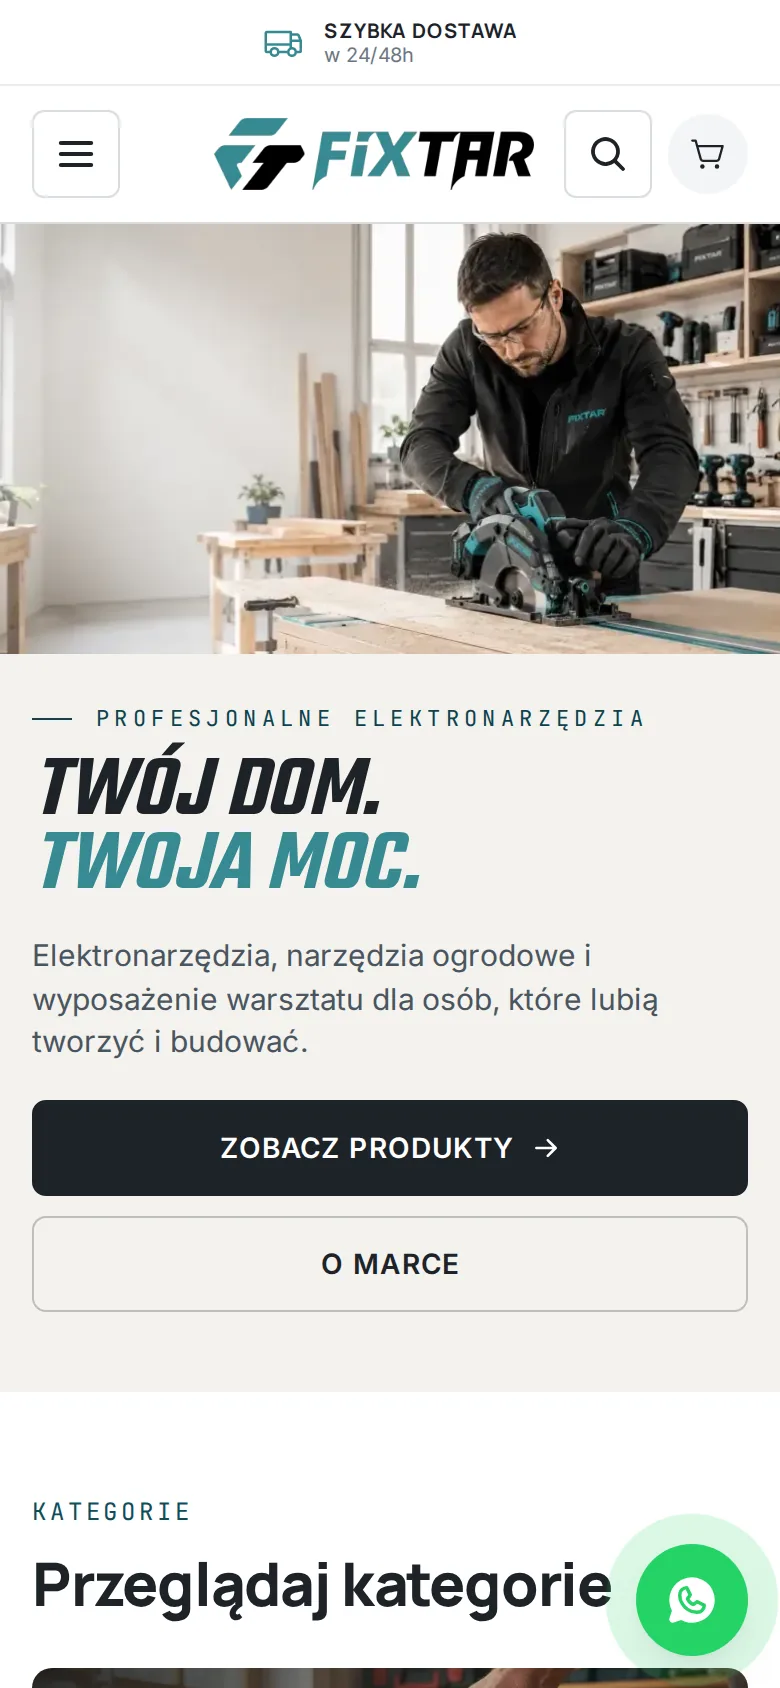
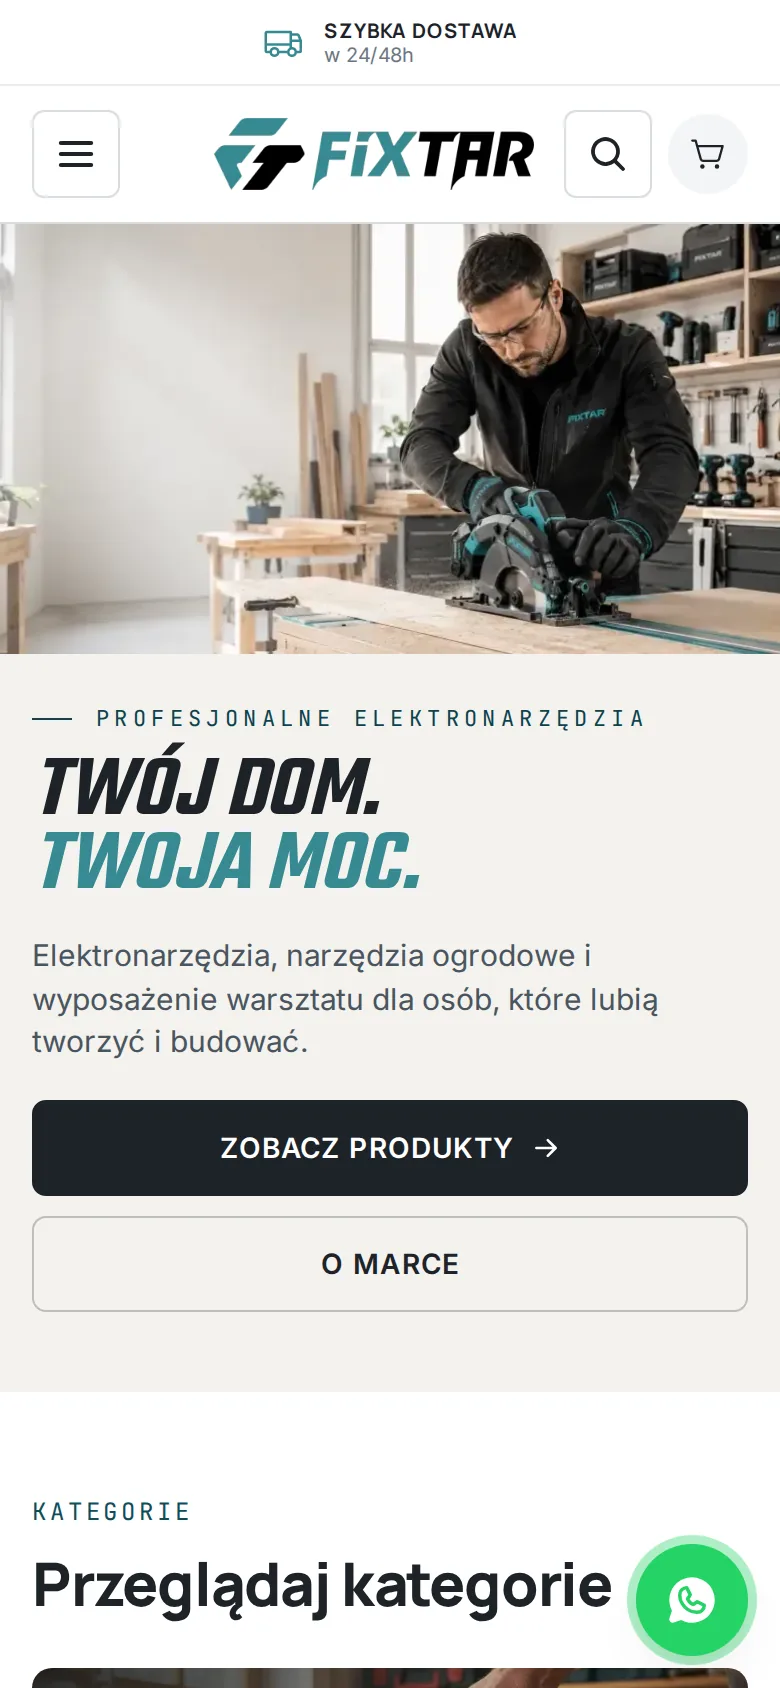
feat(web): fixtar gets the live window's bar and scrolls through whole-page captures
The shop is a client's and stays out of a frame, but its card now has the same
host, Desktop/Mobile and Open bar as its neighbours; a click lets the visitor
scroll the whole page at either width. Touch no longer hands control back on
finger lift, which also keeps live frames usable on phones.

Changed region(s): [[0.7692, 0.8934, 1.0, 1.0]]

diff --git a/apps/web/src/lib/Live.svelte b/apps/web/src/lib/Live.svelte
@@ -4,7 +4,9 @@
 	// A site running inside the page, at a desktop or a phone width. A click hands
 	// it the pointer so it can be used without leaving; when the pointer leaves,
 	// the page gets its scroll back. The capture shows until the site has loaded.
-	let { href, name, shot, phone }: { href: string; name: string; shot?: string; phone?: string } = $props();
+	// A site that may not be framed passes whole-page captures instead (page,
+	// pagePhone), which the same click lets the visitor scroll through.
+	let { href, name, shot, phone, page, pagePhone }: { href: string; name: string; shot?: string; phone?: string; page?: string; pagePhone?: string } = $props();
 
 	const DESKTOP = 1280;
 	const PHONE = 390;
@@ -13,11 +15,14 @@
 	let loaded = $state(false);
 	let w = $state(0);
 	let h = $state(0);
+	let screen: HTMLDivElement;
+	const view = (m: boolean) => ((mobile = m), screen.scrollTo(0, 0));
 	const host = $derived(new URL(href).host);
 	const vw = $derived(mobile ? PHONE : DESKTOP);
 	const s = $derived(w ? Math.min(1, w / vw) : 0.35);
 	const left = $derived(Math.max(0, (w - vw * s) / 2));
 	const still = $derived(mobile ? (phone ?? shot) : shot);
+	const sheet = $derived(page && (mobile ? (pagePhone ?? page) : page));
 
 	onMount(() => (mobile = matchMedia('(max-width: 600px)').matches));
 </script>
@@ -26,31 +31,43 @@
 	<div class="bar">
 		<span class="host">{host}</span>
 		<span class="views" role="group" aria-label="Screen width">
-			<button type="button" aria-pressed={!mobile} onclick={() => (mobile = false)}>Desktop</button>
-			<button type="button" aria-pressed={mobile} onclick={() => (mobile = true)}>Mobile</button>
+			<button type="button" aria-pressed={!mobile} onclick={() => view(false)}>Desktop</button>
+			<button type="button" aria-pressed={mobile} onclick={() => view(true)}>Mobile</button>
 		</span>
 		<a href={href} target="_blank" rel="noopener">Open ↗</a>
 	</div>
-	<!-- Leaving only drops the pointer hand-off; the cover button is the control. -->
+	<!-- Leaving only drops the pointer hand-off; the cover button is the control.
+	     A finger lifting also "leaves", so only a mouse or pen hands it back. -->
 	<!-- svelte-ignore a11y_no_static_element_interactions -->
-	<div class="screen" bind:clientWidth={w} bind:clientHeight={h} onpointerleave={() => (active = false)}>
-		{#if !loaded && still}
-			<img src={still} alt="" style:left="{left}px" style:width="{vw * s}px" />
+	<div
+		class="screen"
+		bind:this={screen}
+		class:scroll={sheet && active}
+		bind:clientWidth={w}
+		bind:clientHeight={h}
+		onpointerleave={(e) => e.pointerType !== 'touch' && (active = false)}
+	>
+		{#if sheet}
+			<img class="sheet" src={sheet} alt="{name}, the whole page" loading="lazy" style:margin-left="{left}px" style:width="{vw * s}px" />
+		{:else}
+			{#if !loaded && still}
+				<img src={still} alt="" style:left="{left}px" style:width="{vw * s}px" />
+			{/if}
+			<iframe
+				src={href}
+				title="{name}, live"
+				loading="lazy"
+				class:shown={loaded}
+				style:left="{left}px"
+				style:width="{vw}px"
+				style:height="{h / s}px"
+				style:transform="scale({s})"
+				onload={() => (loaded = true)}
+			></iframe>
 		{/if}
-		<iframe
-			src={href}
-			title="{name}, live"
-			loading="lazy"
-			class:shown={loaded}
-			style:left="{left}px"
-			style:width="{vw}px"
-			style:height="{h / s}px"
-			style:transform="scale({s})"
-			onload={() => (loaded = true)}
-		></iframe>
 		{#if !active}
 			<button type="button" class="cover" onclick={() => (active = true)} aria-label="Use {name} here">
-				<span>Click to use it here</span>
+				<span>{sheet ? 'Click to scroll through it' : 'Click to use it here'}</span>
 			</button>
 		{/if}
 	</div>
@@ -113,6 +130,15 @@
 		top: 0;
 		display: block;
 		background: var(--paper);
+	}
+	.scroll {
+		overflow-y: auto;
+		overscroll-behavior: contain;
+		scrollbar-width: thin;
+	}
+	img.sheet {
+		position: static;
+		height: auto;
 	}
 	img {
 		height: 100%;

diff --git a/apps/web/src/routes/+page.svelte b/apps/web/src/routes/+page.svelte
@@ -1057,12 +1057,16 @@
 	const flagships = work.filter((w) => w.built);
 	const usedIn = (id: string) => [...work, ...websites].filter((w) => w.uses?.includes(id)).map((w) => w.name);
 	// Every smaller project renders as the same card: a picture, then the facts.
-	type Card = { id: string; name: string; tag: string; href: string; img?: string; phone?: string; frame?: boolean; live?: boolean; desc: string; specs: [string, string][]; uses?: string[]; growth?: Work['growth'] };
+	type Card = { id: string; name: string; tag: string; href: string; img?: string; phone?: string; page?: string; pagePhone?: string; frame?: boolean; live?: boolean; desc: string; specs: [string, string][]; uses?: string[]; growth?: Work['growth'] };
 	const others: Card[] = work
 		.filter((w) => !w.built)
 		.map((w) => ({ id: w.id, name: w.name, tag: w.kind, href: w.href, img: shot(w.id), phone: phoneFor(w.id), frame: isLive(w.href), desc: w.what, specs: w.proof ?? [], uses: w.uses }));
 	const siteCards = (basket: Site['basket']): Card[] =>
-		websites.filter((w) => w.basket === basket).map((w) => ({ ...w, img: platesFor(w.id, w.name)?.frames[0].src, phone: phoneFor(w.id), frame: isLive(w.href) }));
+		websites.filter((w) => w.basket === basket).map((w) => {
+			// A site that may not be framed scrolls through whole-page captures instead.
+			const page = shot(`${w.id}-page`);
+			return { ...w, img: platesFor(w.id, w.name)?.frames[0].src, phone: phoneFor(w.id), page, pagePhone: shot(`${w.id}-page-phone`), frame: !!page || isLive(w.href) };
+		});
 	const clients = siteCards('client');
 	const side = siteCards('side');
 	const groups = kinds
@@ -1121,7 +1125,7 @@
 		{#if c.live}
 			<Radio href={c.href} />
 		{:else if c.frame}
-			<div class="shot"><Live href={c.href} name={c.name} shot={c.img} phone={c.phone} /></div>
+			<div class="shot"><Live href={c.href} name={c.name} shot={c.img} phone={c.phone} page={c.page} pagePhone={c.pagePhone} /></div>
 		{:else if c.img}
 			<a class="shot" href={c.href} tabindex="-1" aria-hidden="true">
 				<img src={c.img} alt="" width="1200" height="750" loading="lazy" />

diff --git a/apps/web/scripts/capture.py b/apps/web/scripts/capture.py
@@ -3,6 +3,8 @@
 Plates: 1440x900 at DPR 2, scaled to 1200x750 (<id>-1.webp, or <id>-<n> per FRAMES url).
 Windows: 1280x800 at DPR 2, the live window's desktop width, scaled to 1200x750.
 Phone: 390x844 at DPR 2, kept at 780x1688 (<id>-phone.webp).
+Pages: whole pages for sites that cannot be framed, scrolled through in the
+window instead (windows/<id>-page.webp at 1280 wide, <id>-page-phone.webp at 780).
 Each file gets a .webp.json provenance note, as DESIGN.md asks.
 """
 import io, json, re, sys
@@ -30,14 +32,17 @@ WINDOWS = {
     'kompi': 'https://kompi.pl',
     'festivals': 'https://festivals.zaur.app',
 }
+# Sites kept out of a live window (fixtar is a client's shop): whole-page captures.
+PAGES = {'fixtar': 'https://fixtar.pl'}
 # Look-inside frames, in the order plates.ts describes them.
 FRAMES = {
     'szkolyjogi': ['https://szkolyjogi.pl/en/krakow/yoga-shala-krakow', 'https://szkolyjogi.pl/en/krakow/dzisiaj', 'https://szkolyjogi.pl/en/krakow'],
 }
 CONSENT = re.compile(r'^\s*(akceptuj|zaakceptuj|zgadzam|accept|allow all|ok|rozumiem)', re.I)
+CAP = 6000  # tallest page kept, in CSS px
 HIDE = '::-webkit-scrollbar{display:none} html{scrollbar-width:none}'
 
-def shoot(browser, url, w, h):
+def shoot(browser, url, w, h, full=False):
     page = browser.new_page(viewport={'width': w, 'height': h}, device_scale_factor=2,
                             is_mobile=w < 500, has_touch=w < 500)
     page.goto(url, wait_until='load', timeout=60000)
@@ -49,7 +54,12 @@ def shoot(browser, url, w, h):
         except Exception:
             pass
     page.wait_for_timeout(2500)
-    png = page.screenshot()
+    if full:
+        # Walk down so lazy images load, then come back up for sticky headers.
+        for y in range(0, min(page.evaluate('document.body.scrollHeight'), CAP), h // 2):
+            page.evaluate(f'scrollTo(0, {y})'); page.wait_for_timeout(250)
+        page.evaluate('scrollTo(0, 0)'); page.wait_for_timeout(1000)
+    png = page.screenshot(full_page=full)
     page.close()
     return Image.open(io.BytesIO(png))
 
@@ -57,6 +67,10 @@ def save(img, name, note, dir='plates'):
     img.save(LIB / dir / f'{name}.webp', quality=82, method=6)
     (LIB / dir / f'{name}.webp.json').write_text(json.dumps(
         {'prompt': f'Live capture, not generated: {note}', 'createdAt': datetime.now(timezone.utc).isoformat()}, indent=2) + '\n')
+
+def page_shot(img, w):
+    img = img.crop((0, 0, img.width, min(img.height, CAP * 2)))
+    return img.resize((w, round(img.height * w / img.width)), Image.LANCZOS)
 
 ids = sys.argv[1:] or [*SITES, *WINDOWS]
 day = datetime.now().date().isoformat()
@@ -71,5 +85,9 @@ with sync_playwright() as p:
             save(shoot(browser, u, 1440, 900).resize((1200, 750), Image.LANCZOS), f'{id}-{n}', desk(u, 1440, 900))
         save(shoot(browser, url, 390, 844), f'{id}-phone',
              f'{url} screenshotted with Playwright Chromium at a 390x844 phone viewport, DPR 2, scrollbars hidden, consent banner dismissed, on {day}; kept at 780x1688 webp.')
+        if id in PAGES:
+            note = lambda w: f'{url} whole page screenshotted with Playwright Chromium at {w} wide, DPR 2, lazy images scrolled in, scrollbars hidden, consent banner dismissed, cut at {CAP}px tall, on {day}'
+            save(page_shot(shoot(browser, url, 1280, 800, True), 1280), f'{id}-page', note(1280) + '; scaled to 1280 wide webp.', 'windows')
+            save(page_shot(shoot(browser, url, 390, 844, True), 780), f'{id}-page-phone', note(390) + '; kept at 780 wide webp.', 'windows')
         print('ok', id)
     browser.close()
